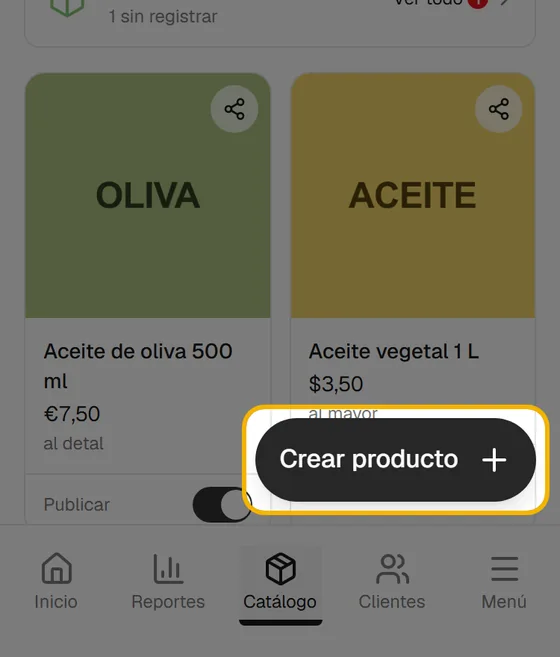
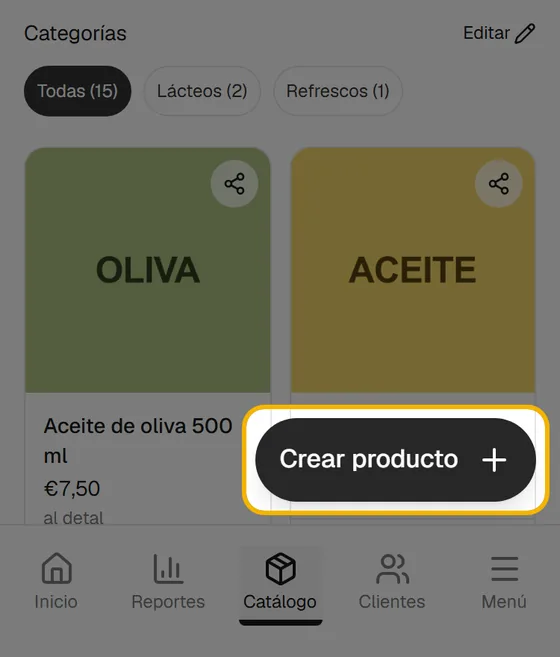
Ayuda: las categorias del catalogo, bajo «Pedidos» y con «Editar»
- Nota «Las categorias ordenan tu catalogo»: donde salen ahora, el conteo, y
  que desde «Editar» se crean, renombran y eliminan.
- «Compartir tu catalogo»: la pista dice «bajo el buscador» en vez de «arriba».
- Capturas rehechas: crear-un-producto 1 y 15, compartir-tu-catalogo 2-5 y su
  portada.

diff --git a/lib/soporte.ts b/lib/soporte.ts
@@ -511,7 +511,7 @@ export const TEMAS: Tema[] = [
       {
         titulo: "Las categorías ordenan tu catálogo",
         texto:
-          "En tu catálogo y en el de tu cliente salen como chips arriba: con un toque se ven solo los productos de esa categoría. A tu cliente solo le salen las que tienen algún producto publicado.",
+          "En tu catálogo salen en [[Categorías]], debajo de [[Pedidos]], cada una con cuántos productos tiene: con un toque ves solo esos. Desde [[Editar]] las creas, les cambias el nombre o las eliminas. A tu cliente solo le salen las que tienen algún producto publicado, y cuentan solo los publicados.",
       },
       {
         titulo: "Puedes crearlo a mitad de una venta",
@@ -545,7 +545,7 @@ export const TEMAS: Tema[] = [
       },
       {
         texto: "Esto es lo que ve tu cliente. Arma su pedido y te llega a [[Pedidos]].",
-        pista: "Arriba salen tus categorías: con un toque ve solo esos productos. Solo le salen las que tienen algo publicado.",
+        pista: "Bajo el buscador salen tus categorías: con un toque ve solo esos productos. Solo le salen las que tienen algo publicado.",
         imagen: "compartir-tu-catalogo/5",
       },
     ],
